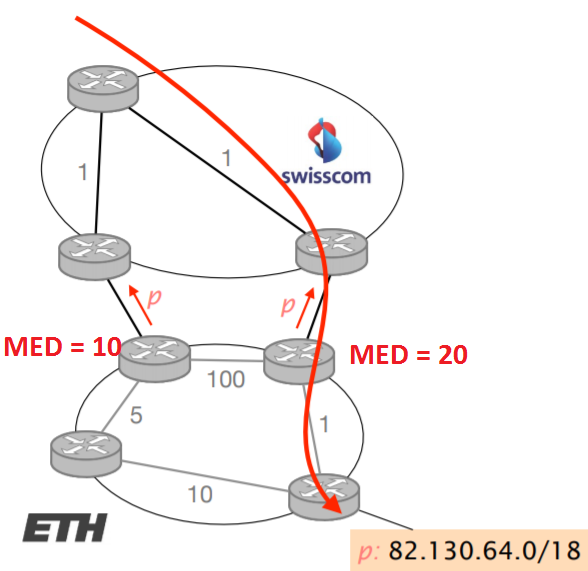
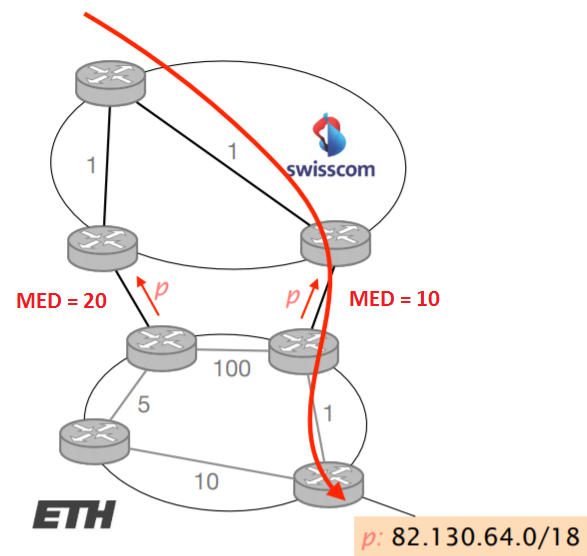
ComNet finished lecture 7

diff --git a/Communication Networks/ComNet_summary.tex b/Communication Networks/ComNet_summary.tex
@@ -993,7 +993,7 @@
 	 	The amount paid is based on peak usage, usually according to the 95\% rule.\\
 	 	Most ISPs discount unit price of data, if you pre-commit to a certain volume (Mengenrabatt).\par 
 	 	
-	 	(ii)Peer/Peer\\
+	 	(ii) Peer/Peer\\
 	 	Peers \textbf{don't} pay each other for connectivity, they do it out of \textbf{common interest}. $\rightarrow$ If they exchange tons of traffic, they save money by connecting directly to each other.\par 
 	 	
 	 	Follow the money:\\ 
@@ -1072,32 +1072,88 @@
 		\end{itemize}
 		Update is the most important one. They carry an IP \textbf{prefix} together with a set of \textbf{attributes}. Attributes: 
 		\begin{itemize}[noitemsep]
-			\item Next-Hop
+			\item \textbf{Next-Hop}
 			\begin{itemize}
 				\item[$-$] egress point identification
 			\end{itemize}
-			\item AS-Path
+			\item \textbf{AS-Path}
 			\begin{itemize}
 				\item[$-$] loop avoidance
 				\item[$-$] outbound traffic control
 				\item[$-$] inbound traffic control
 			\end{itemize}
-			\item Local-Pref
+			\item \textbf{Local-Pref}
 			\begin{itemize}
 				\item[$-$] outbound traffic control
 			\end{itemize}
-			\item Med
+			\item \textbf{Med}
 			\begin{itemize}
 				\item[$-$] inbound traffic control
 			\end{itemize}
 		\end{itemize}
-		The \textbf{Next-Hop} is a global attribute which indicates where to send the traffic next. The Next-Hop is sent when the route enters an AS, it does not change within the AS.\\
+		The \textbf{Next-Hop} is a global attribute which indicates where to send the traffic next. The Next-Hop is sent when the route enters an AS, it does not change within the AS. It only changes when going form one AS to an other!\\
+		Solution:\\
+		Force overwrite of Next-Hop to a virtual IP-address (\textbf{loopback} address) given to the router (unique identifier in internal network) and advertise this via OSPF in the internal network. Method is called \textcolor{Red}{\textbf{Next-Hop-Self}}.
 		\includegraphics[width=\columnwidth]{images/Network_Layer/next_hop.png}
-		The \textbf{AS-Path} is a global attribute that lists all the ASes a route has traversed (in reverse order).\\
+		\par 
+		The \textbf{AS-Path} is a global attribute that lists all the ASes a route has traversed (in reverse order):\\
 		\includegraphics[width=\columnwidth]{images/Network_Layer/as_path.png}
-		The \textbf{Local-Pref} is a \textit{local} attribute set at the border, it represents how \textit{preferred} a route is.\\
+		\par 
+		The \textbf{Local-Pref} is a \textit{local} attribute set at the border, it represents how \textit{preferred} a route is. Where do I want to send my traffic. Here all the routers will prefer DT over Swisscom:\\
 		\includegraphics[width=\columnwidth]{images/Network_Layer/local_pref.png}
-		The \textbf{MED} is a global attribute which encodes the relative proximity of a prefix wrt to the announcer.\\
+		\par 
+		The \textbf{MED} is a global attribute which encodes the relative proximity of a prefix wrt to the announcer. You can \textbf{influence} your neighbor and try to tell them where to send your receiving traffic (Only works with multiple connections to the \textbf{same AS}). In the end though, the sender decides where he sends the traffic $\rightarrow$ I can influence not control:\\
+		\begin{center}
+			\includegraphics[width=0.7\columnwidth]{images/Network_Layer/med.png}
+		\end{center}
+		\par 
+		Each BGP router processes updates according to a precise \textbf{pipeline}: 
+		\includegraphics[width=\columnwidth]{images/Network_Layer/pipeline.png}
+		\par 
+		How to choose best route - prefer routes with:
+		\vspace{-0.2cm} 
+		\begin{enumerate}[noitemsep]
+			\item higher Local-Pref
+			\item shortest AS-Path length
+			\item lower MED
+			\item learned via eBGP instead of iGBP
+			\item lower iGBP metric to next-hop
+			\item smaller egress IP-address
+		\end{enumerate}
+		\par 
+		\textbf{3. Problems}\\
+		BGP suffers from many problems!
+		\begin{enumerate}[label=(\roman*), noitemsep]
+			\item \textbf{Reachability}
+			\item \textbf{Security}
+			\item \textbf{Convergence} 
+			\item \textbf{Performance} 
+			\item \textbf{Anomalies}
+			\item \textbf{Relevance} 
+		\end{enumerate}
+	    i) \textbf{Reachability}\\
+		Policy routing does not guarantee reachability, even if the network is physically connected.\par 
+		
+		ii) \textbf{Security}
+		\vspace{-0.2cm}
+		 \begin{itemize}[noitemsep]
+		 	\item \textbf{IP Hijacking}
+			\begin{itemize}
+				\item[$-$] Steal IP-prefix and receive all the traffic that is not intended for you $\rightarrow$ Blackhole/Snooping/Impersonation 
+			\end{itemize}
+			\item \textbf{Bogus AS-paths}
+			\begin{itemize}
+				\item[$-$] Remove ASes form the path
+				\item[$-$] Add Ases to the path
+				\item[$-$] Add AS hop(s) at the end of the path
+			\end{itemize}
+			\item \textbf{Invalid paths}
+			\begin{itemize}
+				\item AS exports a route it shouldn't
+			\end{itemize}
+			\item \textbf{ Missing/Inconsistent routes}	
+		\end{itemize}
+		
 
 		 
 			
